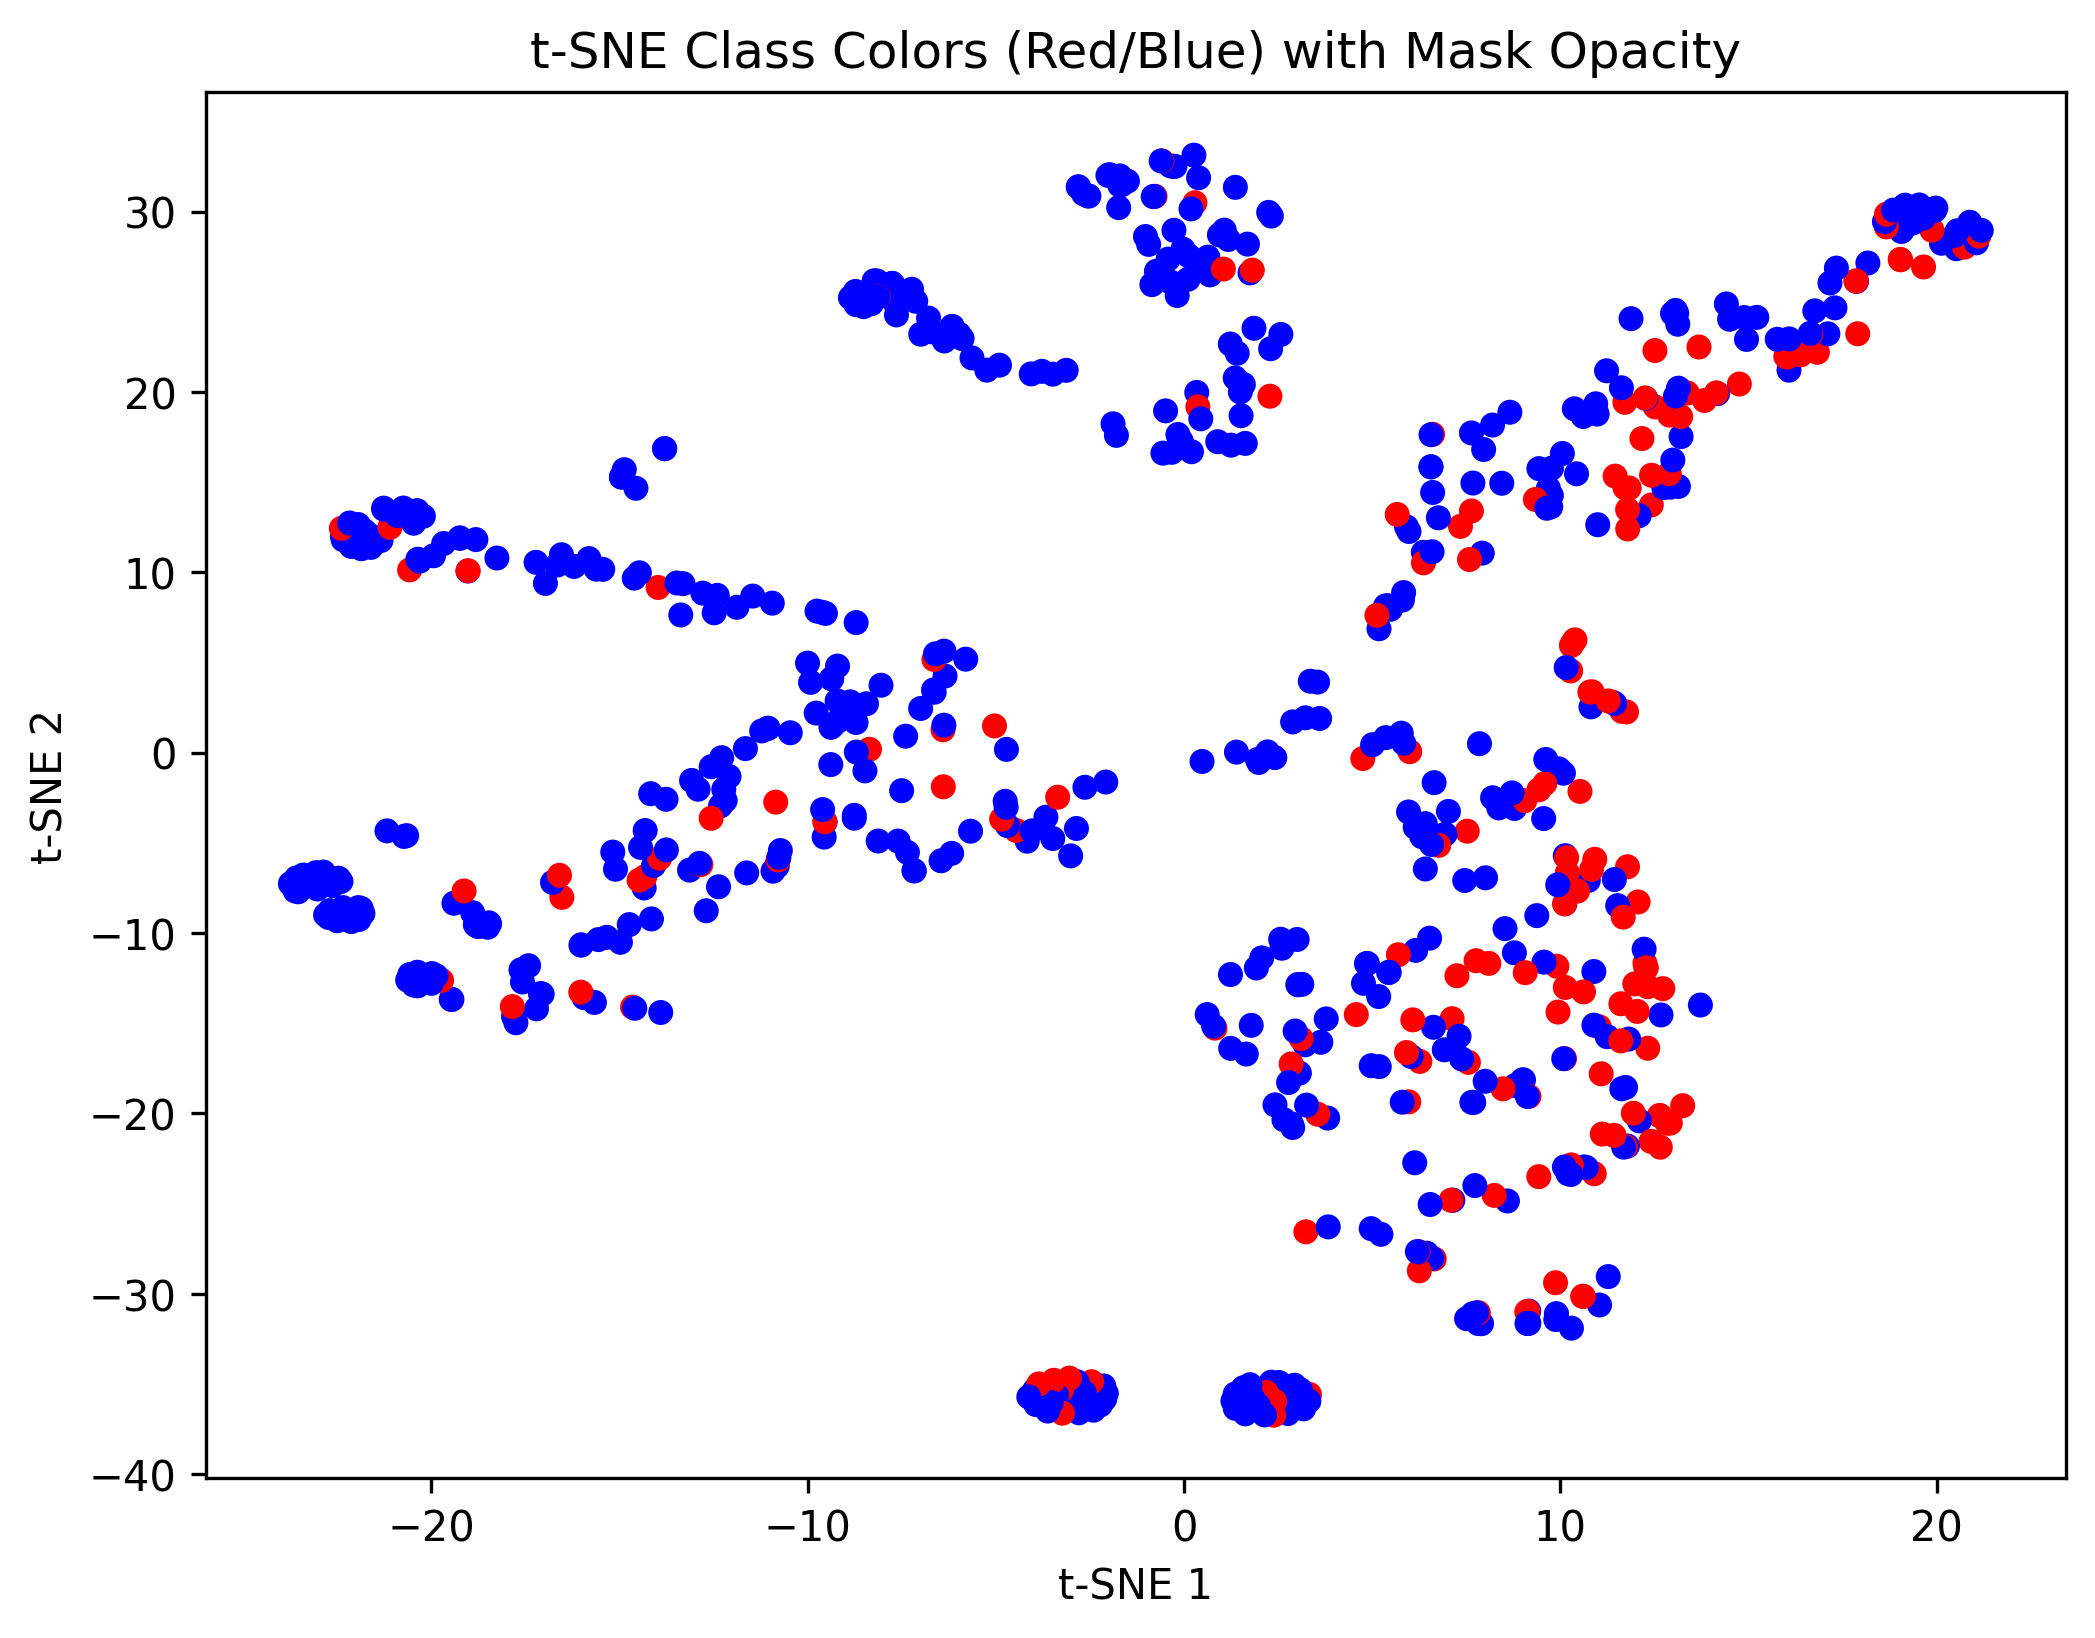
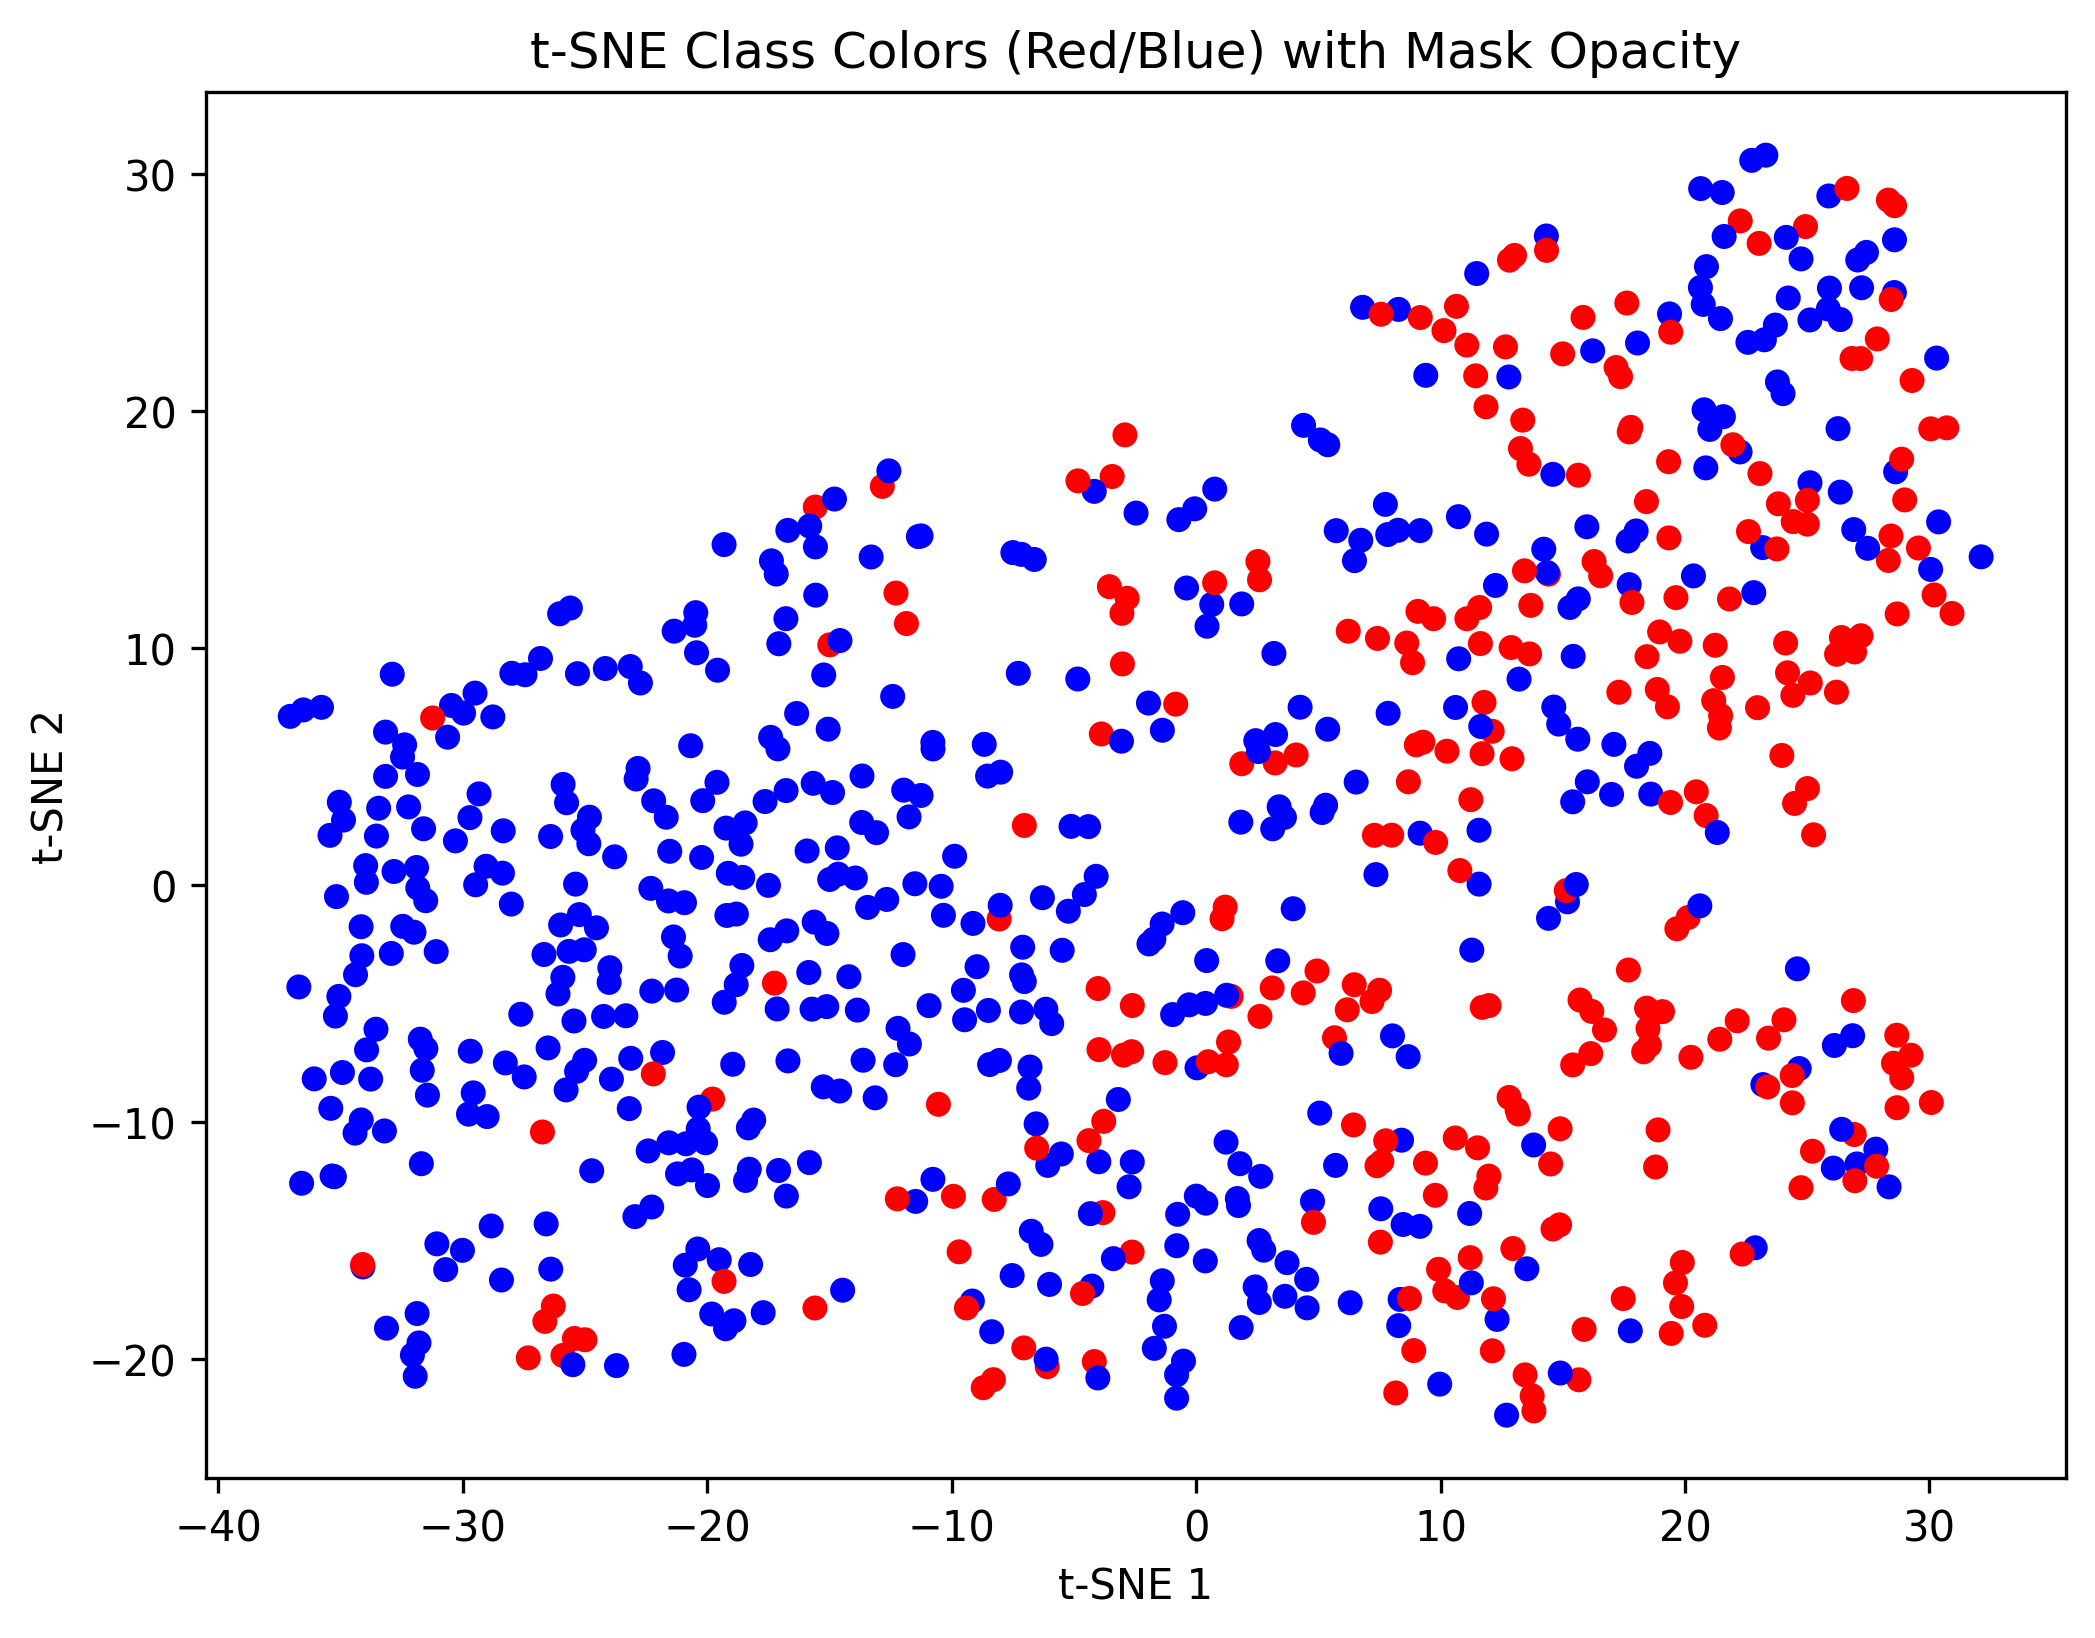
pima dataset report

diff --git a/students/am-zaytsev/lab2/README.md b/students/am-zaytsev/lab2/README.md
@@ -2,13 +2,15 @@
 
 - Запуск `uv run main`
 - Тестирование `uv run pytest`
+
 ## Dataset
 
-Для выполнения лабораторной работы был выбран датасет  [донорство крови](https://www.kaggle.com/datasets/vstacknocopyright/blood-transfusion-service-center-data)
+
+Для выполнения лабораторной работы был выбран датасет
+[диабет индейцев пима](https://www.kaggle.com/datasets/jamaltariqcheema/pima-indians-diabetes-dataset)
+Всего 2 класса. Есть ли у пациента диабет.
 
 ![tsne dataset](./images/dataset_plot.png)
-
-Всего 2 класса. Сдавал ли человек кровь.
 
 ## KNN implementation
 
@@ -27,11 +29,11 @@
 ![](./images/choose_k.png)
 
 Самым лучшим оказались параметры 
-- h - 4
-- Kernel - rect
-При таких параметрах LLO = 0.2273
+- h - 31
+- Kernel - quartic
+При таких параметрах LLO = 0.1289
 
-Были выбраны именно такие параметры, тк график для прямоугольного ядра имеет минимум ниже минимумов других ядер. Этот минимум находится при h = 4, 5. Решил взять 4, чтобы ускорить работу алгоритма. 
+Были выбраны именно такие параметры, тк график для ядра `quartic` имеет минимум ниже минимумов других ядер. Этот минимум находится при h = 31
 
 ## scikit-learn compare
 Затем я сравнил свой лучший алгоритм с реализацией из sklearn. Я также попробовал 2 ядра `distance` и `uniform`. 
@@ -39,10 +41,10 @@
 
 Видно, что реализация scikit-learn с равномерным ядром (без учета расстояний) показывает результат лучше, чем мой текущий:
 
-- h - 6
-- Kernel - uniform
+- h - 13
+- Kernel - sklearn uniform
 
-При таких параметрах LLO = 0.2246
+При таких параметрах LLO = 0.1302
 
 ## Reference search
 
@@ -63,11 +65,11 @@
 
 |Название|Размер|LOO|
 |-|-|-|
-|Полный датасет|748|0.2273|
-|Эталонный датасет|115 (15.4%)|0.1725|
+|Полный датасет|768|0.1289|
+|Эталонный датасет|88 (11.5%)|0.0716|
 
 # Вывод
 
 Были выполнены все пункты задания лабораторной работы
 
-Эталонная реализация из scikit-learn имела LLO в `0.2246`, моя реализация с отбором эталонов имеет LLO в `0.1725`.
+Эталонная реализация из scikit-learn имела LLO в `0.1302`, моя реализация с отбором эталонов имеет LLO в `0.0716`.
